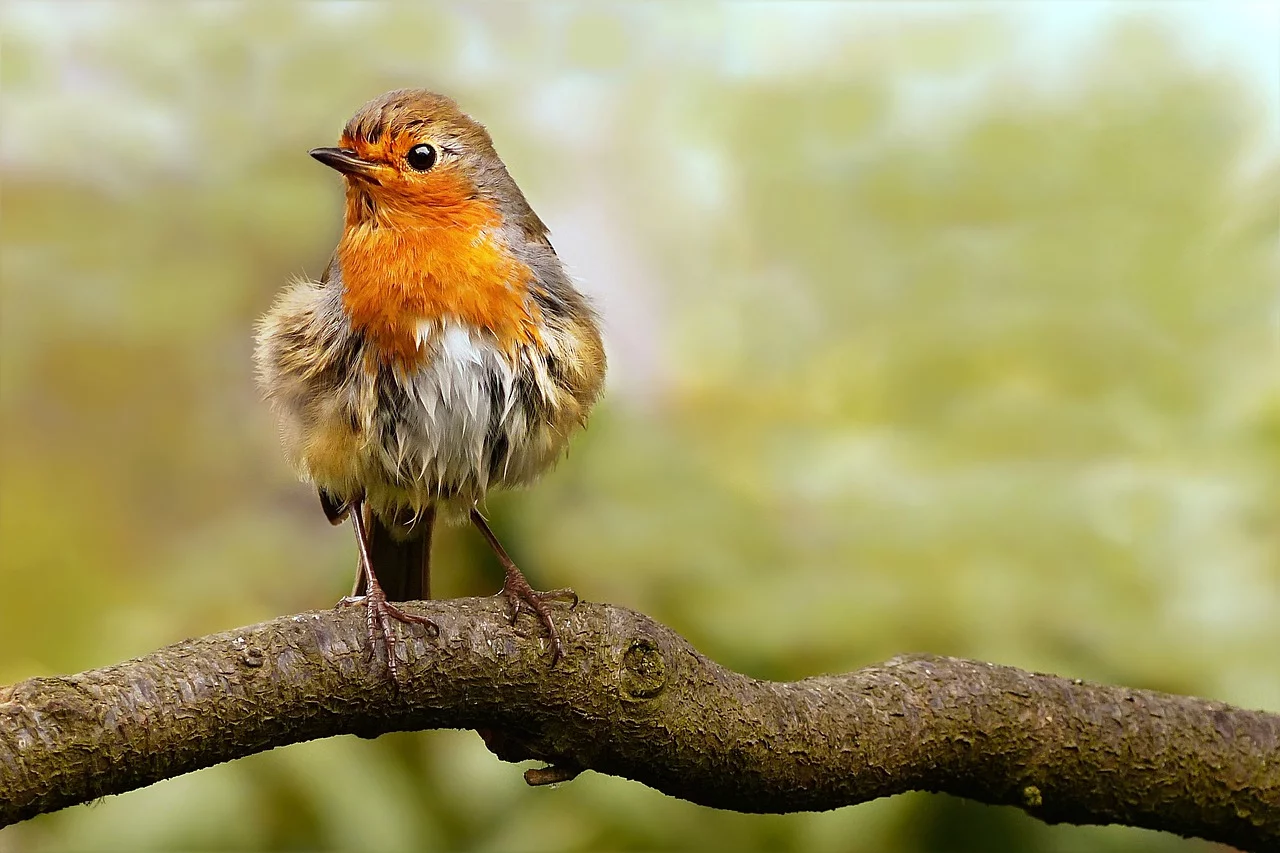
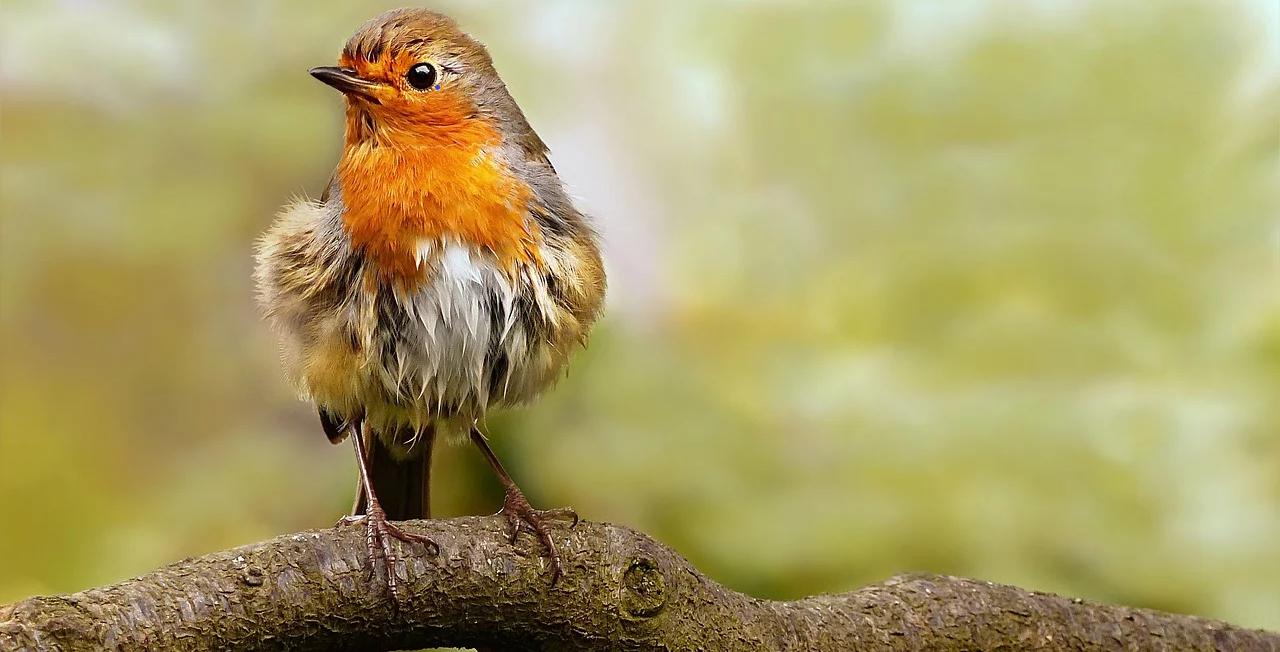
Add more sections

diff --git a/index.html b/index.html
@@ -9,14 +9,28 @@
     <body>
         <div class="header">
             <nav>
-                <h1>Aaron He</h1>
+                <h1><a href="index.html">Aaron He</a></h1>
+                <a href="">Projects</a>
+                <a href="">Blog</a>
+                <a href="https://github.com/AaronHe7/" target="_blank">Github</a>
             </nav>
-            <img src="img/header-background.png" alt="picture of a bird" height="300">
+            <img src="img/header-background.png" alt="picture of a bird">
         </div>
-        
-        <p>Hello, my name is Aaron He and I am a programmer and an aspiring computer scientists. I create projects out
+        <div class="content intro-paragraph">
+            Hello, my name is Aaron He and I am a programmer and an aspiring computer scientist. I create projects out
             of interest in computers and algorithms. This is my personal website; here, you will find my finished projects,
             and blog posts about math and computer science.
-        </p>
+        </div>
+        <div class="content grey">
+            <h2>Programming Languages</h2>
+        </div>
+        <div class="content">
+            <h2>Skills</h2>
+        </div>
+        <footer>Info
+            <div>Contact: aaronhe07@gmail.com</div>
+            <div>Github: AaronHe7</div>
+            <div>Youtube: <a href="https://www.youtube.com/channel/UCpLNLIJ66Lqjwm-E69qbW8w">Aaron He</a></div>
+        </footer>
     </body>
 </html>

diff --git a/styles/styles.css b/styles/styles.css
@@ -1,7 +1,47 @@
 body {
     font-family: Roboto, sans-serif;
+    margin: 0;
 }
 
-.header {
-    background-image: url("/img/header-background.png");
+.header img {
+    display: block;
+    opacity: 1;
+    margin: 0;
+    height: 400px;
+    border-radius: 10px;
+    margin: auto;
+    transition: all 500ms;
+}
+
+.header img:hover {
+    opacity: 0.8;
+}
+
+nav {
+    /* background-color: #eaeaea; */
+    /* background-color: #f8f8f8; */
+    display: flex;
+    align-items: center;
+    padding: 40px 0;
+}
+
+nav > h1 {
+    margin: 0 20px;
+}
+nav a {
+    margin: 0 40px;
+    text-decoration: none;
+    color: black;
+}
+
+.content {
+    padding: 20px 50px;
+}
+
+.intro-paragraph {
+    margin-bottom: 30px;
+}
+
+.grey {
+    background-color: #f8f8f8;
 }
